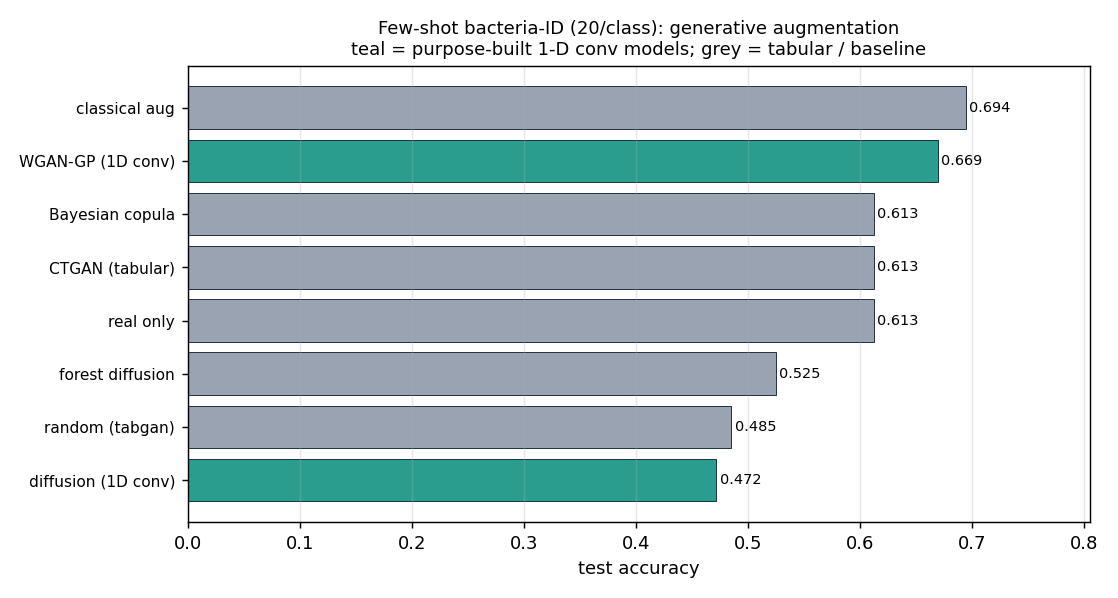
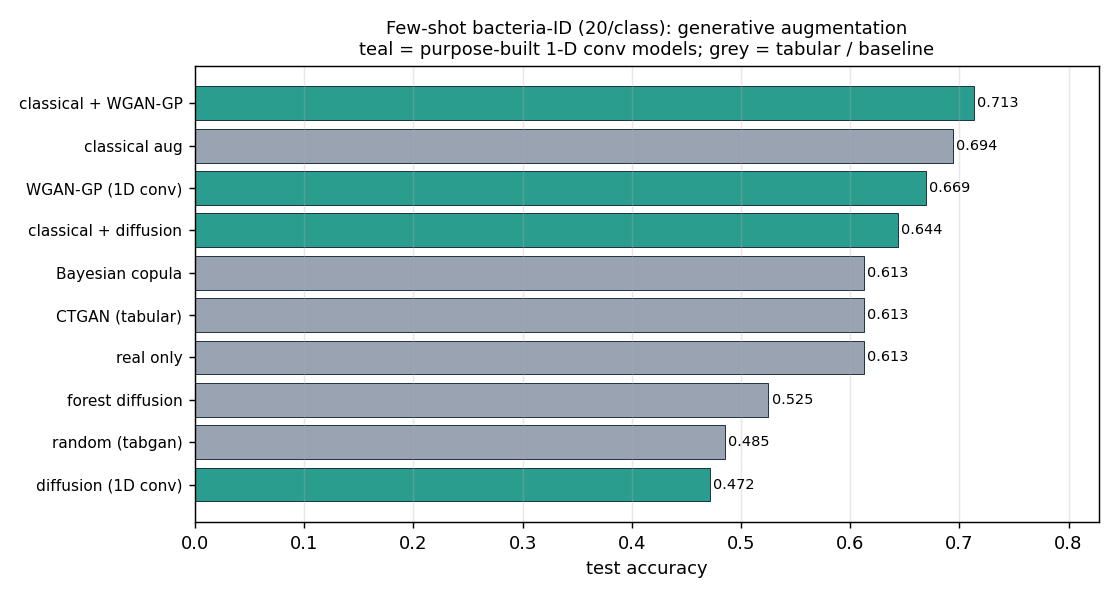
feat(benchmark): stack classical+generative aug and add an epoch-budget sweep
- run_generative_augmentation: add stacked conditions (classical + WGAN-GP/DDPM);
  classical + WGAN-GP is the overall best at 0.713, classical + DDPM hurts (0.644)
- run_generative_epochs_sweep: control training budget (150-1500 epochs). The DDPM
  is flat at ~0.47 (converged, not under-trained); the GAN peaks ~0.706 at 700
  epochs; GAN beats DDPM at every matched budget. expose final loss on both models

diff --git a/scripts/run_generative_epochs_sweep.py b/scripts/run_generative_epochs_sweep.py
@@ -1,0 +1,113 @@
+"""Training-budget sensitivity: is the GAN-vs-diffusion result an epoch artefact?
+
+A fair generator comparison must control training budget, so this sweeps the
+number of training epochs for the two purpose-built 1-D conv generators (and
+CTGAN via tabgan) on the same few-shot bacteria-ID setup, and plots downstream
+test accuracy against epochs. If the DDPM simply needed longer, its curve should
+keep climbing; if it has converged, the curve flattens (and its training loss
+stops dropping).
+
+    python scripts/run_generative_epochs_sweep.py --budgets 150 300 700 1500
+
+Outputs:
+  results/generative_epochs_sweep.csv
+  plots/generative_epochs_sweep.png
+"""
+from __future__ import annotations
+
+import argparse
+import os
+import sys
+import time
+import warnings
+
+import matplotlib
+
+matplotlib.use("Agg")
+import matplotlib.pyplot as plt  # noqa: E402
+import numpy as np  # noqa: E402
+
+warnings.filterwarnings("ignore")
+sys.path.insert(0, os.path.join(os.path.dirname(os.path.dirname(
+    os.path.abspath(__file__))), "src"))
+
+from sklearn.linear_model import LogisticRegression  # noqa: E402
+from sklearn.metrics import accuracy_score  # noqa: E402
+
+from raman_ml.datasets import load_bacteria_id  # noqa: E402
+from raman_ml.generative import SpectralDiffusion, SpectralGAN  # noqa: E402
+from raman_ml.preprocessing import l2_normalize  # noqa: E402
+
+_ROOT = os.path.dirname(os.path.dirname(os.path.abspath(__file__)))
+RESULTS_DIR = os.path.join(_ROOT, "benchmarks", "results")
+PLOTS_DIR = os.path.join(_ROOT, "benchmarks", "plots")
+
+
+def _few_shot(X, y, shots, seed):
+    rng = np.random.default_rng(seed)
+    idx = np.concatenate([rng.choice(np.where(y == c)[0],
+                                     size=min(shots, int((y == c).sum())), replace=False)
+                          for c in np.unique(y)])
+    rng.shuffle(idx)
+    return X[idx], y[idx]
+
+
+def _acc(Xtr, ytr, Xte, yte):
+    clf = LogisticRegression(max_iter=3000, C=5.0).fit(Xtr, ytr)
+    return accuracy_score(yte, clf.predict(Xte))
+
+
+def main():
+    ap = argparse.ArgumentParser()
+    ap.add_argument("--shots", type=int, default=20)
+    ap.add_argument("--gen", type=int, default=40)
+    ap.add_argument("--budgets", type=int, nargs="+", default=[150, 300, 700, 1500])
+    ap.add_argument("--seed", type=int, default=0)
+    args = ap.parse_args()
+    os.makedirs(RESULTS_DIR, exist_ok=True)
+    os.makedirs(PLOTS_DIR, exist_ok=True)
+
+    Xf, yf, _ = load_bacteria_id("finetune")
+    Xt, yt, _ = load_bacteria_id("test")
+    n_classes = int(yf.max()) + 1
+    Xfs, yfs = _few_shot(Xf, yf, args.shots, args.seed)
+    Xfs_n, Xt_n = l2_normalize(Xfs), l2_normalize(Xt)
+    real_acc = _acc(Xfs_n, yfs, Xt_n, yt)
+    print(f"real-only acc={real_acc:.3f}\n")
+
+    rows = []
+    for b in args.budgets:
+        t0 = time.time()
+        gan = SpectralGAN(n_classes, epochs=b, seed=args.seed).fit(Xfs_n, yfs)
+        Xg, yg = gan.generate_balanced(args.gen)
+        a_gan = _acc(np.vstack([Xfs_n, Xg]), np.concatenate([yfs, yg]), Xt_n, yt)
+
+        diff = SpectralDiffusion(n_classes=n_classes, epochs=b, seed=args.seed).fit(Xfs_n, yfs)
+        Xd, yd = diff.generate_balanced(args.gen)
+        a_dif = _acc(np.vstack([Xfs_n, Xd]), np.concatenate([yfs, yd]), Xt_n, yt)
+
+        rows.append(dict(epochs=b, gan_acc=a_gan, diffusion_acc=a_dif,
+                         diffusion_loss=round(float(diff.final_loss_), 4),
+                         gan_critic_loss=round(float(gan.final_critic_loss_), 3)))
+        print(f"  epochs={b:5d}  GAN={a_gan:.3f}  diffusion={a_dif:.3f}  "
+              f"(diff_loss={diff.final_loss_:.3f})  [{time.time() - t0:.0f}s]")
+
+    import pandas as pd
+    df = pd.DataFrame(rows)
+    df.to_csv(os.path.join(RESULTS_DIR, "generative_epochs_sweep.csv"), index=False)
+    print("\n" + df.to_string(index=False))
+
+    fig, ax = plt.subplots(figsize=(7.2, 4.6))
+    ax.plot(df["epochs"], df["gan_acc"], "-o", color="#2a9d8f", label="WGAN-GP (1D conv)")
+    ax.plot(df["epochs"], df["diffusion_acc"], "-s", color="#9b5de5", label="diffusion (DDPM)")
+    ax.axhline(real_acc, color="#9aa3b2", ls="--", lw=1, label=f"real only ({real_acc:.3f})")
+    ax.axhline(0.694, color="#12263a", ls=":", lw=1, label="classical aug (0.694)")
+    ax.set_xlabel("training epochs"); ax.set_ylabel("test accuracy")
+    ax.set_title("Generative augmentation vs training budget (few-shot bacteria-ID)")
+    ax.grid(alpha=0.3); ax.legend(fontsize=8, loc="lower right")
+    fig.tight_layout(); fig.savefig(os.path.join(PLOTS_DIR, "generative_epochs_sweep.png"), dpi=130)
+    print("\nSaved generative_epochs_sweep.csv + generative_epochs_sweep.png")
+
+
+if __name__ == "__main__":
+    main()

diff --git a/scripts/run_generative_augmentation.py b/scripts/run_generative_augmentation.py
@@ -60,7 +60,8 @@ from raman_ml.preprocessing import l2_normalize  # noqa: E402
 _ROOT = os.path.dirname(os.path.dirname(os.path.abspath(__file__)))
 RESULTS_DIR = os.path.join(_ROOT, "benchmarks", "results")
 PLOTS_DIR = os.path.join(_ROOT, "benchmarks", "plots")
-CONV = ("WGAN-GP (1D conv)", "diffusion (1D conv)")  # our models, for plot highlight
+CONV = ("WGAN-GP (1D conv)", "diffusion (1D conv)",
+        "classical + WGAN-GP", "classical + diffusion")  # our conv models, for highlight
 
 
 def _few_shot(X, y, shots, seed):
@@ -132,7 +133,8 @@ def main():
         print(f"  {name:24s} acc={acc:.3f}  macroF1={f1:.3f}  (n_train={n_tr})")
 
     add("real only", None, None)
-    add("classical aug", *_classical_aug(Xfs_n, yfs, args.gen, args.seed))
+    Xca, yca = _classical_aug(Xfs_n, yfs, args.gen, args.seed)
+    add("classical aug", Xca, yca)
 
     # --- tabgan family, in PCA space ---
     if not args.no_tabgan:
@@ -161,7 +163,8 @@ def main():
     # --- purpose-built 1-D conv models, full resolution ---
     t0 = time.time()
     gan = SpectralGAN(n_classes, epochs=args.epochs, seed=args.seed, verbose=True).fit(Xfs_n, yfs)
-    add("WGAN-GP (1D conv)", *gan.generate_balanced(args.gen))
+    Xgan, ygan = gan.generate_balanced(args.gen)
+    add("WGAN-GP (1D conv)", Xgan, ygan)
     print(f"    [WGAN-GP in {time.time() - t0:.0f}s]")
 
     t0 = time.time()
@@ -171,6 +174,10 @@ def main():
     diff_syn = (Xdf, ydf)
     add("diffusion (1D conv)", Xdf, ydf)
     print(f"    [diffusion in {time.time() - t0:.0f}s]")
+
+    # --- stacked: classical augmentation + a generative model on top ---
+    add("classical + WGAN-GP", np.vstack([Xca, Xgan]), np.concatenate([yca, ygan]))
+    add("classical + diffusion", np.vstack([Xca, Xdf]), np.concatenate([yca, ydf]))
 
     import pandas as pd
     df = pd.DataFrame(results)

diff --git a/src/raman_ml/generative.py b/src/raman_ml/generative.py
@@ -169,8 +169,9 @@ class SpectralDiffusion:
                 loss.backward()
                 opt.step()
                 running += loss.item() * x0.shape[0]
+            self.final_loss_ = running / n
             if self.verbose and (ep % 50 == 0 or ep == self.epochs - 1):
-                print(f"  diffusion epoch {ep:4d}  loss={running / n:.4f}")
+                print(f"  diffusion epoch {ep:4d}  loss={self.final_loss_:.4f}")
         return self
 
     @torch.no_grad()
@@ -320,8 +321,9 @@ class SpectralGAN:
                 og.zero_grad()
                 g_loss.backward()
                 og.step()
+            self.final_critic_loss_ = d_running / max(1, n)
             if self.verbose and (ep % 50 == 0 or ep == self.epochs - 1):
-                print(f"  gan epoch {ep:4d}  critic_loss={d_running / max(1, n):.3f}")
+                print(f"  gan epoch {ep:4d}  critic_loss={self.final_critic_loss_:.3f}")
         return self
 
     @torch.no_grad()
